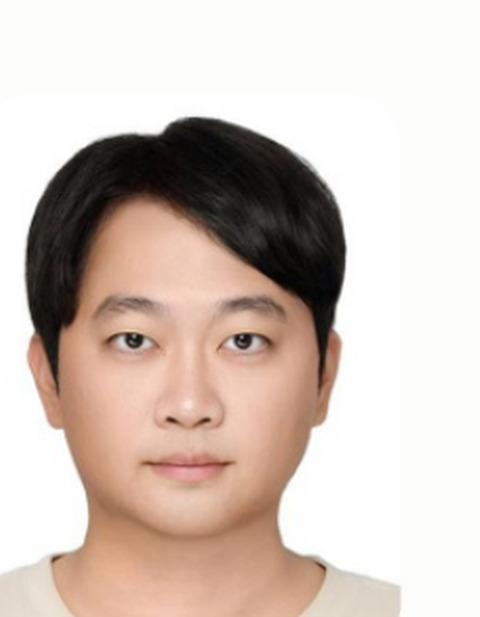
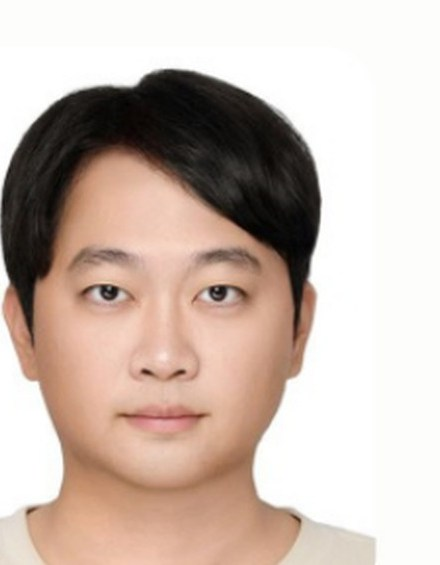
가독성 정비: 그래프만 크게, 트레이너 비교표, 자문 사진 얼굴 중앙, AI 말투 제거
- 브라운대 실험은 합성 이미지 대신 점수 그래프만 2배 해상도로 크게 (글씨 읽힘)
- 트레이너 비유 줄글 두 문단을 지금의 AI vs 좋은 트레이너 비교 두 칸으로
- 김근태 자문 사진을 얼굴 중심으로 재크롭
- 카드 08 우리만의 주장이 아닙니다, 천문학적 가치 증명 문장을 평이한 사실 문장으로

diff --git a/briefing.html b/briefing.html
@@ -303,12 +303,14 @@
     <h2>문제 인식 ② · AI 시대, 생각하는 수고를 양도해버린 인간</h2>
     <p>학습과학이 오래 확인해 온 사실이 하나 있습니다. <b>스스로 떠올리고, 풀고, 틀리는 수고</b>가 오래 남는 지식을 만든다는 것입니다. 그런데 AI는 바로 그 수고를 대신 들어주는 도구입니다.</p>
     <p>그걸 실험으로 확인한 교수가 있습니다. 브라운대 세라노 교수는 재택 중간고사 평균이 96%까지 치솟자 학생들의 AI 사용을 의심했고, <b>기말고사를 대면으로 돌렸습니다.</b> 강의도, 학생도, 난이도도 같았습니다. 달라진 것은 AI 유무뿐.</p>
-    <div class="shot" style="margin-top:14px;">
-      <img src="assets/brown-experiment.png" alt="과거 평균 65~80에서 재택 중간 96으로 올랐다가 대면 기말 48.6으로 떨어지는 점수 그래프와, 실험을 보도한 Inside Higher Ed 기사 화면" loading="lazy" />
-      <div class="cap"><b>96% ⟶ 48.6%</b> · 브라운대 복지경제학 수업 86명 · Inside Higher Ed 보도(2026년 7월)</div>
+    <div class="shot" style="max-width:560px;margin:14px auto 4px;">
+      <img src="assets/brown-chart.png" alt="과거 중간 평균 65~80에서 재택 중간 96으로 올랐다가 대면 기말 48.6으로 떨어지는 점수 그래프" loading="lazy" style="background:#fff;padding:14px 10px 6px;" />
+      <div class="cap"><b>96 ⟶ 48.6</b> · 브라운대 복지경제학 수업 86명 · Inside Higher Ed 보도(2026년 7월)</div>
     </div>
-    <p style="margin-top:16px;"><b>지금의 AI는 무게를 대신 들어주는 트레이너입니다.</b> 벤치에 눕자마자 트레이너가 바벨을 대신 듭니다. 전부, 완벽한 자세로. 한 시간 뒤 땀 한 방울 없이 나오면서, 그것을 도움이라고 부릅니다.</p>
-    <p><b>좋은 트레이너는 거의 들 수 있는 무게를 고릅니다.</b> 마지막 한 개에서 버티게 두고, 떨어뜨리기 직전에만 바를 받칩니다. 성장은 거기서 일어납니다. 생각이 강해지는 자리도 거기입니다.</p>
+    <div class="grid3" style="grid-template-columns:1fr 1fr;margin-top:16px;">
+      <div class="pill"><div class="t">지금의 AI · 대신 들어주는 트레이너</div><div class="d">벤치에 눕자마자 바벨을 대신 듭니다. 전부, 완벽한 자세로. 한 시간 뒤 땀 한 방울 없이 나오면서, 그것을 <b>도움</b>이라고 부릅니다.</div></div>
+      <div class="pill"><div class="t">좋은 트레이너 · 거의 들 수 있는 무게</div><div class="d">마지막 한 개에서 버티게 두고, 떨어뜨리기 직전에만 바를 받칩니다. <b>성장은 거기서 일어납니다.</b> 생각이 강해지는 자리도 거기입니다.</div></div>
+    </div>
     <p>학생들은 진짜 운동인 <b>생각 그 자체</b>를 AI에게 넘기고, 직접 들어올린 것처럼 96점을 들고 걸어 나갑니다. 도움이 사라지는 순간, 점수는 48.6점으로 무너집니다.</p>
     <figure style="margin:20px 0 6px;">
       <img src="assets/trainer-metaphor.png" alt="바벨을 대신 들어주는 AI 아래 마른 팔과, 직접 드는 Provee 아래 단단한 팔의 대비" loading="lazy"
@@ -450,10 +452,10 @@
   <div class="card">
     <div class="no">08</div>
     <h2>이게 얼마나 큰가 · 실제 사례</h2>
-    <p>우리만의 주장이 아닙니다. <b>같은 시장에서 이미 천문학적 가치가 증명</b>됐습니다.</p>
+    <p>같은 시장에서 이미 이런 회사들이 나왔습니다.</p>
     <div class="comp"><div class="big">Photomath</div><div class="txt">수학 문제를 인식해 풀이를 보여주는 앱. <b>구글이 인수</b>(2022~23), 추정 <b>3,300억~7,500억원</b>.</div></div>
     <div class="comp"><div class="big">콴다 / 매스프레소</div><div class="txt">한국 수학 AI 검색 앱. 누적 투자 약 <b>1,530억원</b>, 유니콘 근접, 50개국 서비스.</div></div>
-    <p class="soft" style="margin-top:14px;">시장이 <span class="em">이미</span> 수천억~조 단위로 증명된 겁니다. 그런데 우리는, 이들과 <b>방향이 정반대</b>입니다.</p>
+    <p class="soft" style="margin-top:14px;">수천억에서 조 단위의 값이 이미 오간 시장입니다. 그런데 우리는 이들과 <b>방향이 정반대</b>입니다.</p>
     <div class="contrast">
       <div class="row them"><span class="lab">Photomath · 콴다</span>문제를 <b>대신 풀어</b> 답과 풀이를 보여준다. 학생은 받아 본다.</div>
       <div class="row us"><span class="lab">Provee</span>학생이 <b>직접 손으로 푼다.</b> 그 손글씨 사고 과정을 분석하고, 맞은 문제 속 균열까지 짚어 이끈다.</div>
